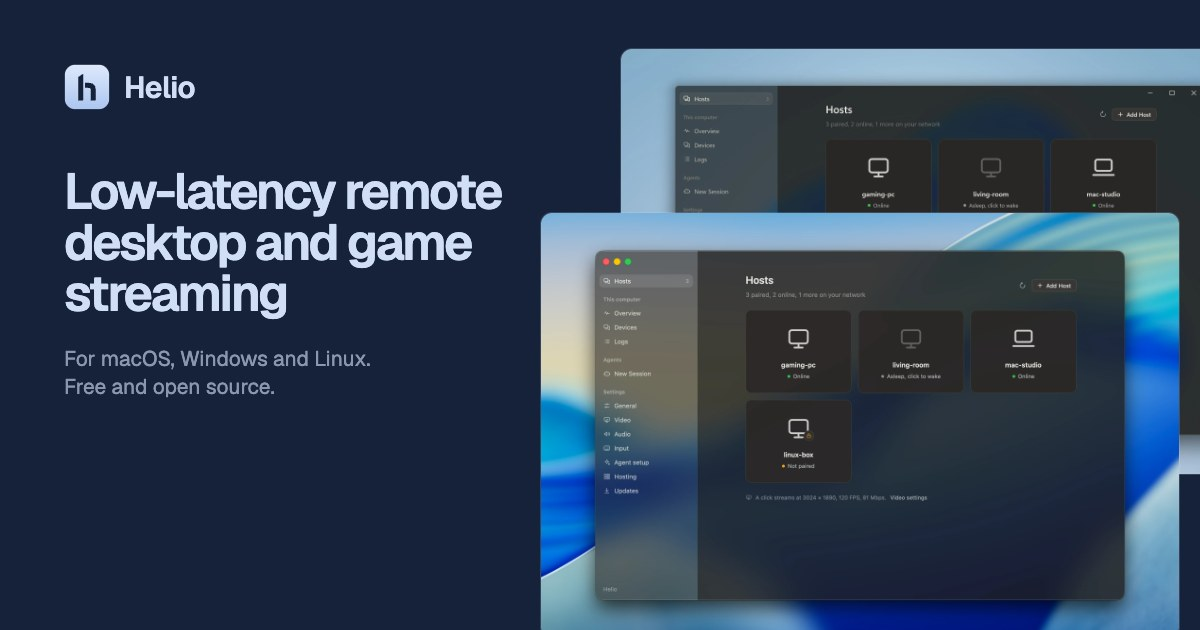
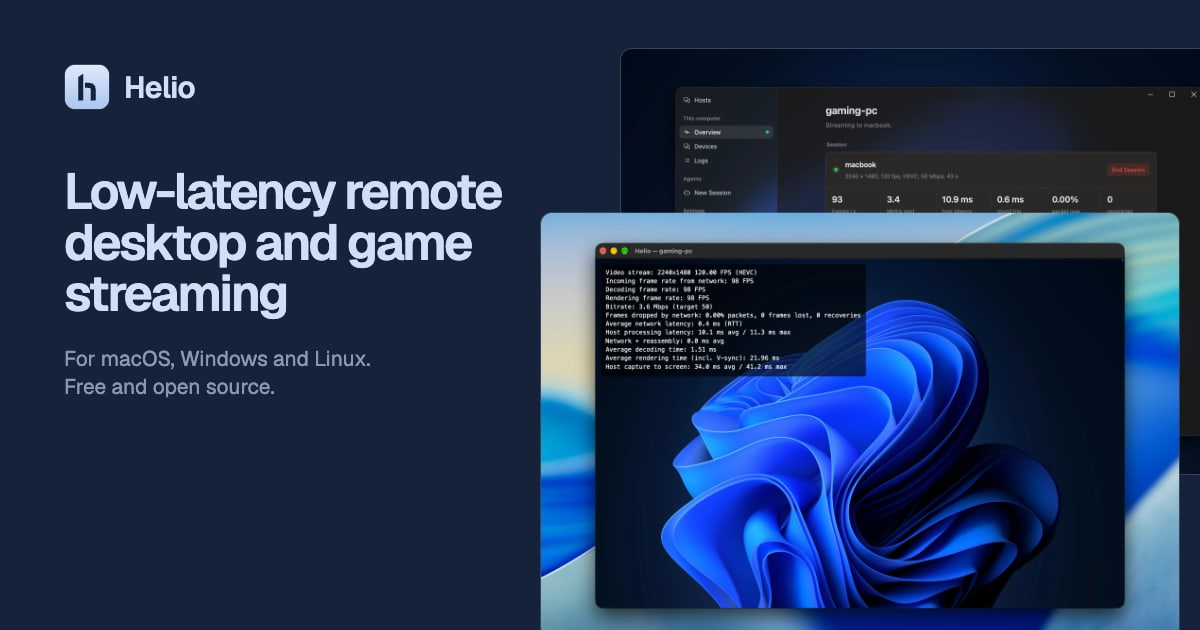
site: the hero is a real stream, taken on one Mac
The hero showed the Hosts page twice, on macOS and on Windows. It now shows
what Helio does: in front, a stream in Helio's window on a Mac, with the
statistics over it (2240x1480 at 120 fps in HEVC, 98 frames a second
arriving, 10.1 ms of host processing); behind, This computer → Overview
of that same session on the host, streaming to macbook (93 frames a
second sent, a host latency of 10.9 ms). The link preview is made from
the same pair.

Both come from one real stream on a Mac alone (scripts/capture-hero.sh
says how): a second copy of the installed host, with the engine of #88
(the host latency reported every second) and signed again with the same
Developer ID, with a data folder of its own, paired by keys with a test
client, its virtual display covered with Windows 11's dark Bloom
wallpaper. The host's picture is laid out as helio-ui lays it out on
Windows: the sidebar's rows and the page moved up over the traffic
lights, and Windows 11's caption buttons drawn, so it reads as the
Windows PC it stands for; the script does both, and says so. The Mac's
Hosts picture and its crop go.

Verified, on this branch with every commit above it: npm test, 26 passed,
0 failed; astro check, 0 errors; the hero
and the link preview looked at; the script's layout step, run on the
capture, gives the picture on the page byte for byte. The test host, its
virtual display and the helper windows were stopped after, and the Mac's
own host left running.

diff --git a/site/scripts/hero/macos/wall.swift b/site/scripts/hero/macos/wall.swift
@@ -1,13 +1,18 @@
 // A picture as a borderless window behind Helio: the Mac's glass then blurs
 // that picture, and this Mac's own wallpaper and windows stay out of it. The
 // pointer is parked on it, so no row in the capture looks hovered.
-// Usage: wall IMAGE X Y W H SECONDS (points, from the top left).
+// Usage: wall IMAGE X Y W H SECONDS [host] (points, from the main screen's
+// top left). host: a host's virtual display, covered over its menu bar and
+// Dock, the pointer left alone, and two corner pixels changing shade at each
+// refresh: a Mac host sends a frame only when the screen changes, and a still
+// wallpaper held the hero's 120 fps stream at 24 frames a second.
 import AppKit
 let a = CommandLine.arguments
 let image = NSImage(contentsOfFile: a[1])!
 let (x, y, w, h) = (Double(a[2])!, Double(a[3])!, Double(a[4])!, Double(a[5])!)
-let screen = NSScreen.main!.frame
-CGWarpMouseCursorPosition(CGPoint(x: x + 6, y: y + h - 6))
+let host = a.count > 7 && a[7] == "host"
+let screen = NSScreen.screens[0].frame
+if !host { CGWarpMouseCursorPosition(CGPoint(x: x + 6, y: y + h - 6)) }
 let app = NSApplication.shared
 app.setActivationPolicy(.accessory)
 // A borderless window can take the front only as the key window.
@@ -27,7 +32,25 @@ holder.addSubview(view)
 window.contentView = holder
 window.isOpaque = true
 window.hasShadow = false
+final class Ticker: NSObject {
+    var flip = false
+    var dot: NSView?
+    @objc func step(_ link: CADisplayLink) {
+        flip.toggle()
+        dot?.layer?.backgroundColor = NSColor(white: flip ? 0.05 : 0.06, alpha: 1).cgColor
+    }
+}
+let ticker = Ticker()
+if host {
+    window.level = .screenSaver
+    window.collectionBehavior = [.canJoinAllSpaces, .stationary]
+    let dot = NSView(frame: NSRect(x: 0, y: 0, width: 2, height: 2))
+    dot.wantsLayer = true
+    holder.addSubview(dot)
+    ticker.dot = dot
+}
 app.activate(ignoringOtherApps: true)
 window.makeKeyAndOrderFront(nil)
+if host { holder.displayLink(target: ticker, selector: #selector(Ticker.step(_:))).add(to: .main, forMode: .common) }
 DispatchQueue.main.asyncAfter(deadline: .now() + Double(a[6])!) { exit(0) }
 app.run()

diff --git a/site/scripts/og-card.html b/site/scripts/og-card.html
@@ -1,8 +1,8 @@
 <!doctype html><html><head><meta charset="utf-8">
 <!--
   The link preview (public/og.jpg), 1200x630, in the page's look: the logo's
-  ink and blues only, the hero's title, and its two pictures: the Hosts
-  window on macOS in front of Windows (src/assets/hero/). Any headless browser
+  ink and blues only, the hero's title, and its two pictures: a stream in
+  Helio's window in front of the host's Overview (src/assets/hero/). Any headless browser
   renders it at 1200x630; save the screenshot as public/og.jpg.
 -->
 <style>
@@ -23,6 +23,6 @@ p { margin-top: 26px; color: rgb(209 223 246 / 0.62); font-size: 21px; line-heig
   <h1>Low-latency remote desktop and game streaming</h1>
   <p>For macOS, Windows and Linux.<br>Free and open source.</p>
 </div>
-<img class="win back" src="../src/assets/hero/windows.webp">
-<img class="win front" src="../src/assets/hero/macos.webp">
+<img class="win back" src="../src/assets/hero/host.webp">
+<img class="win front" src="../src/assets/hero/stream.webp">
 </body></html>
